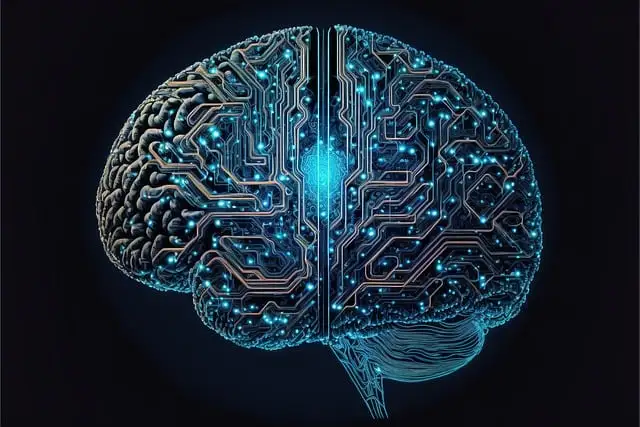
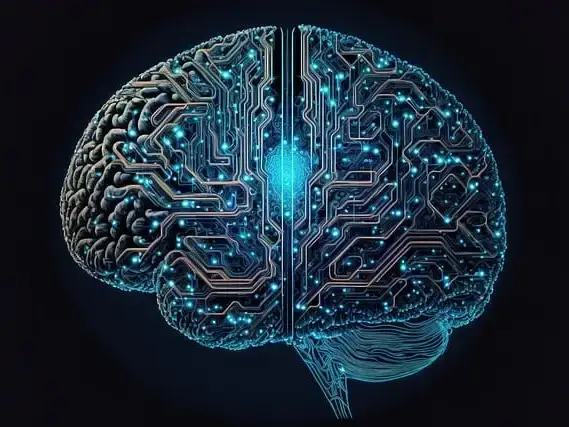
improving lighthouse

diff --git a/project/scripts/main.js b/project/scripts/main.js
@@ -10,84 +10,3 @@ menuButton.addEventListener("click", () => {
 });
 
 const userForm = document.getElementById("notesForm");
-
-
-
-// ------------------------------------------------------------------
-// NOTES FEATURE
-// ------------------------------------------------------------------
-const titleElem = document.querySelector("#title");
-const noteElem = document.querySelector("#note");
-const notesContainer = document.querySelector("#notes-container");
-
-
-// Load user data from local storage
-let notesData = JSON.parse(localStorage.getItem("notesData")) || [];
-notesData.forEach(note => createNoteElement(note.id, note.title, note.content));
-
-
-// Save user data to local storage
-userForm.addEventListener("submit", (e) => {
-  e.preventDefault();
-
-  note = {
-    id: Date.now(),
-    title: titleElem.value,
-    content: noteElem.value,
-  };
-
-  notesData.push(note);
-  localStorage.setItem("notesData", JSON.stringify(notesData));
-  renderNotes();
-  clearFormData();
-});
-
-
-
-// ------------------------------------------------------------------
-// FUNCTIONS
-// ------------------------------------------------------------------
-
-/**
- * Creates a note element in html and appends it to the notesContainer
- * @param {number} id 
- * @param {string} title 
- * @param {string} content 
- */
-function createNoteElement(id, title, content) {
-  const noteItemElem = document.createElement("div");
-  noteItemElem.classList.add("note-item");
-  noteItemElem.innerHTML = `
-    <h3>${title}</h3> 
-    <p>${content}</p>
-  `;
-  const smallElem = document.createElement("small");
-  const deleteElem = document.createElement("a");
-  deleteElem.classList.add("deleteBtn");
-  deleteElem.textContent = "Delete";
-  deleteElem.addEventListener("click", () => {
-    console.log("deleting");
-    notesData = notesData.filter(x => x.id !== id);
-    localStorage.setItem("notesData", JSON.stringify(notesData));
-    renderNotes();
-  });
-  smallElem.appendChild(deleteElem);
-  noteItemElem.appendChild(smallElem);
-  notesContainer.appendChild(noteItemElem);
-}
-
-/**
- * Renders all the notes saved in the notesData variable
- */
-function renderNotes() {
-  notesContainer.innerHTML = "";
-  notesData.forEach(note => createNoteElement(note.id, note.title, note.content));
-}
-
-/**
- * Clears the form data in the html element
- */
-function clearFormData() {
-  titleElem.value = "";
-  noteElem.value = "";
-}

diff --git a/project/scripts/form.js b/project/scripts/form.js
@@ -1,0 +1,79 @@
+
+// ------------------------------------------------------------------
+// NOTES FEATURE
+// ------------------------------------------------------------------
+const titleElem = document.querySelector("#title");
+const noteElem = document.querySelector("#note");
+const notesContainer = document.querySelector("#notes-container");
+
+
+// Load user data from local storage
+let notesData = JSON.parse(localStorage.getItem("notesData")) || [];
+notesData.forEach(note => createNoteElement(note.id, note.title, note.content));
+
+
+// Save user data to local storage
+userForm.addEventListener("submit", (e) => {
+  e.preventDefault();
+
+  note = {
+    id: Date.now(),
+    title: titleElem.value,
+    content: noteElem.value,
+  };
+
+  notesData.push(note);
+  localStorage.setItem("notesData", JSON.stringify(notesData));
+  renderNotes();
+  clearFormData();
+});
+
+
+
+// ------------------------------------------------------------------
+// FUNCTIONS
+// ------------------------------------------------------------------
+
+/**
+ * Creates a note element in html and appends it to the notesContainer
+ * @param {number} id 
+ * @param {string} title 
+ * @param {string} content 
+ */
+function createNoteElement(id, title, content) {
+  const noteItemElem = document.createElement("div");
+  noteItemElem.classList.add("note-item");
+  noteItemElem.innerHTML = `
+    <h3>${title}</h3> 
+    <p>${content}</p>
+  `;
+  const smallElem = document.createElement("small");
+  const deleteElem = document.createElement("a");
+  deleteElem.classList.add("deleteBtn");
+  deleteElem.textContent = "Delete";
+  deleteElem.addEventListener("click", () => {
+    console.log("deleting");
+    notesData = notesData.filter(x => x.id !== id);
+    localStorage.setItem("notesData", JSON.stringify(notesData));
+    renderNotes();
+  });
+  smallElem.appendChild(deleteElem);
+  noteItemElem.appendChild(smallElem);
+  notesContainer.appendChild(noteItemElem);
+}
+
+/**
+ * Renders all the notes saved in the notesData variable
+ */
+function renderNotes() {
+  notesContainer.innerHTML = "";
+  notesData.forEach(note => createNoteElement(note.id, note.title, note.content));
+}
+
+/**
+ * Clears the form data in the html element
+ */
+function clearFormData() {
+  titleElem.value = "";
+  noteElem.value = "";
+}

diff --git a/project/index.html b/project/index.html
@@ -1,8 +1,8 @@
 <!DOCTYPE html>
 <html lang="en">
   <head>
-    <meta charset="utf-8" />
-    <meta name="viewport" content="width=device-width, initial-scale=1.0" />
+    <meta charset="utf-8">
+    <meta name="viewport" content="width=device-width, initial-scale=1.0">
     <title>AI Center</title>
     <link rel="icon" type="image/x-icon" href="./images/favicon.ico">
     <meta
@@ -22,6 +22,7 @@
     <link rel="stylesheet" href="styles/home-large.css" />
     <script src="../scripts/getdates.js" type="text/javascript" defer></script>
     <script src="scripts/main.js" type="text/javascript" defer></script>
+    <script src="scripts/form.js" type="text/javascript" defer></script>
   </head>
   <body>
     <header>
@@ -66,6 +67,7 @@
               src="./images/neural-network-brain-small.webp"
               alt="Neural network in form of a brain"
               loading="lazy"
+              width="400px"
             />
           </picture>
         </div>
@@ -109,6 +111,7 @@
               src="./images/ai-solve-problem-small.webp"
               alt="Neural network in form of a brain"
               loading="lazy"
+              width="400px"
             />
           </picture>
         </div>
@@ -128,7 +131,7 @@
         <form id="notesForm">
           <label for="title">Title</label>
           <input type="text" id="title" name="title" required />
-          <label for="notes">Notes:</label>
+          <label for="note">Notes:</label>
           <textarea id="note" name="note" rows="5"></textarea>
           <button type="submit">Create note!</button>
         </form>

diff --git a/project/companies.html b/project/companies.html
@@ -58,6 +58,7 @@
                 src="./images/openai-small.webp"
                 alt="OpenAI company logo"
                 loading="lazy"
+                width="400"
               />
             </picture>
           </div>
@@ -83,6 +84,7 @@
                 src="./images/microsoft-small.webp"
                 alt="Microsoft company logo"
                 loading="lazy"
+                width="400"
               />
             </picture>
           </div>
@@ -108,6 +110,7 @@
                 src="./images/google-small.webp"
                 alt="Google company logo"
                 loading="lazy"
+                width="400"
               />
             </picture>
           </div>
@@ -133,6 +136,7 @@
                 src="./images/meta-small.webp"
                 alt="Meta company logo"
                 loading="lazy"
+                width="400"
               />
             </picture>
           </div>

diff --git a/project/styles/home.css b/project/styles/home.css
@@ -13,6 +13,7 @@ section.normal ol {
 
 main img {
   max-width: 100%;
+  aspect-ratio: 4/3;
 }
 
 .picture-container img {

diff --git a/project/styles/companies.css b/project/styles/companies.css
@@ -19,6 +19,7 @@
 
 .large-card img {
   max-width: 100%;
+  aspect-ratio: 25/9;
   display: block;
   margin: auto;
 }

diff --git a/project/styles/companies-large.css b/project/styles/companies-large.css
@@ -4,8 +4,5 @@
     column-gap: 1rem;
   }
 
-  .large-card img {
-    max-width: 25rem;
-  }
   
 }
